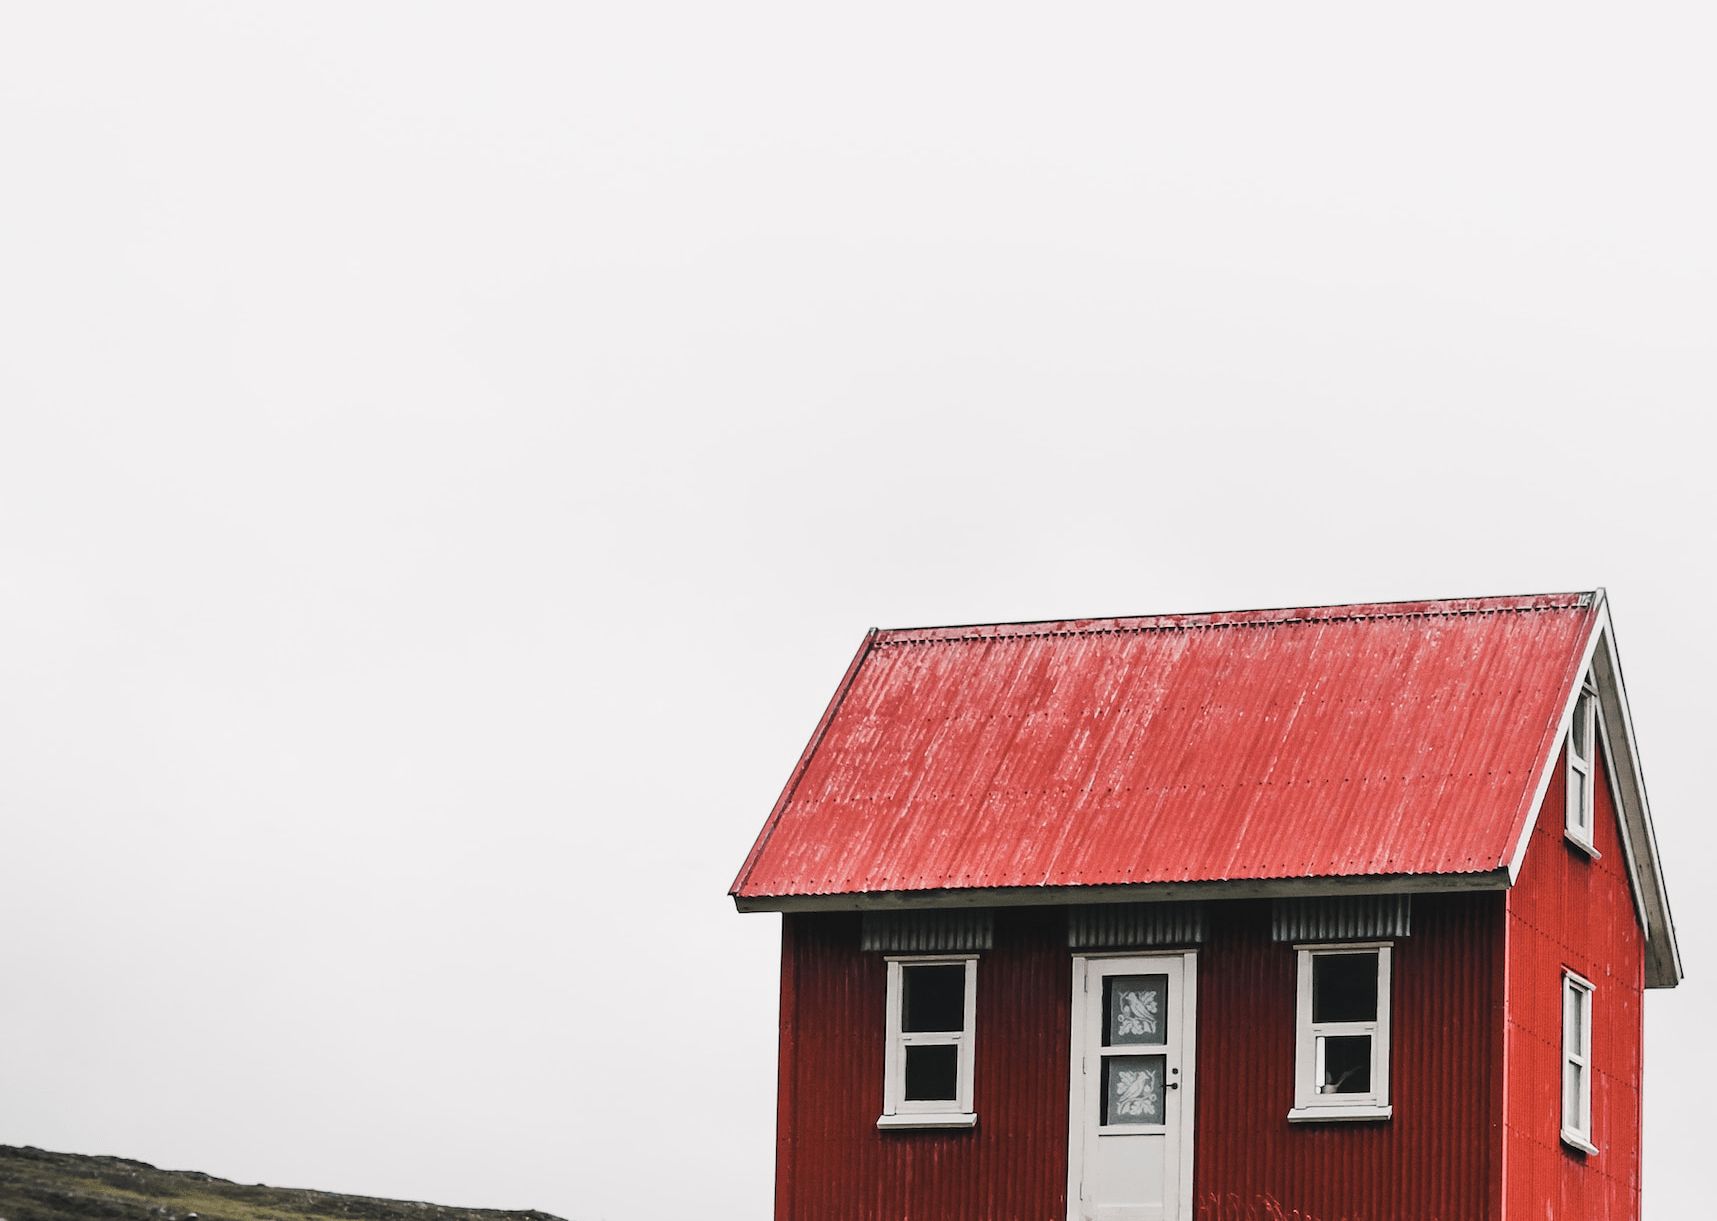
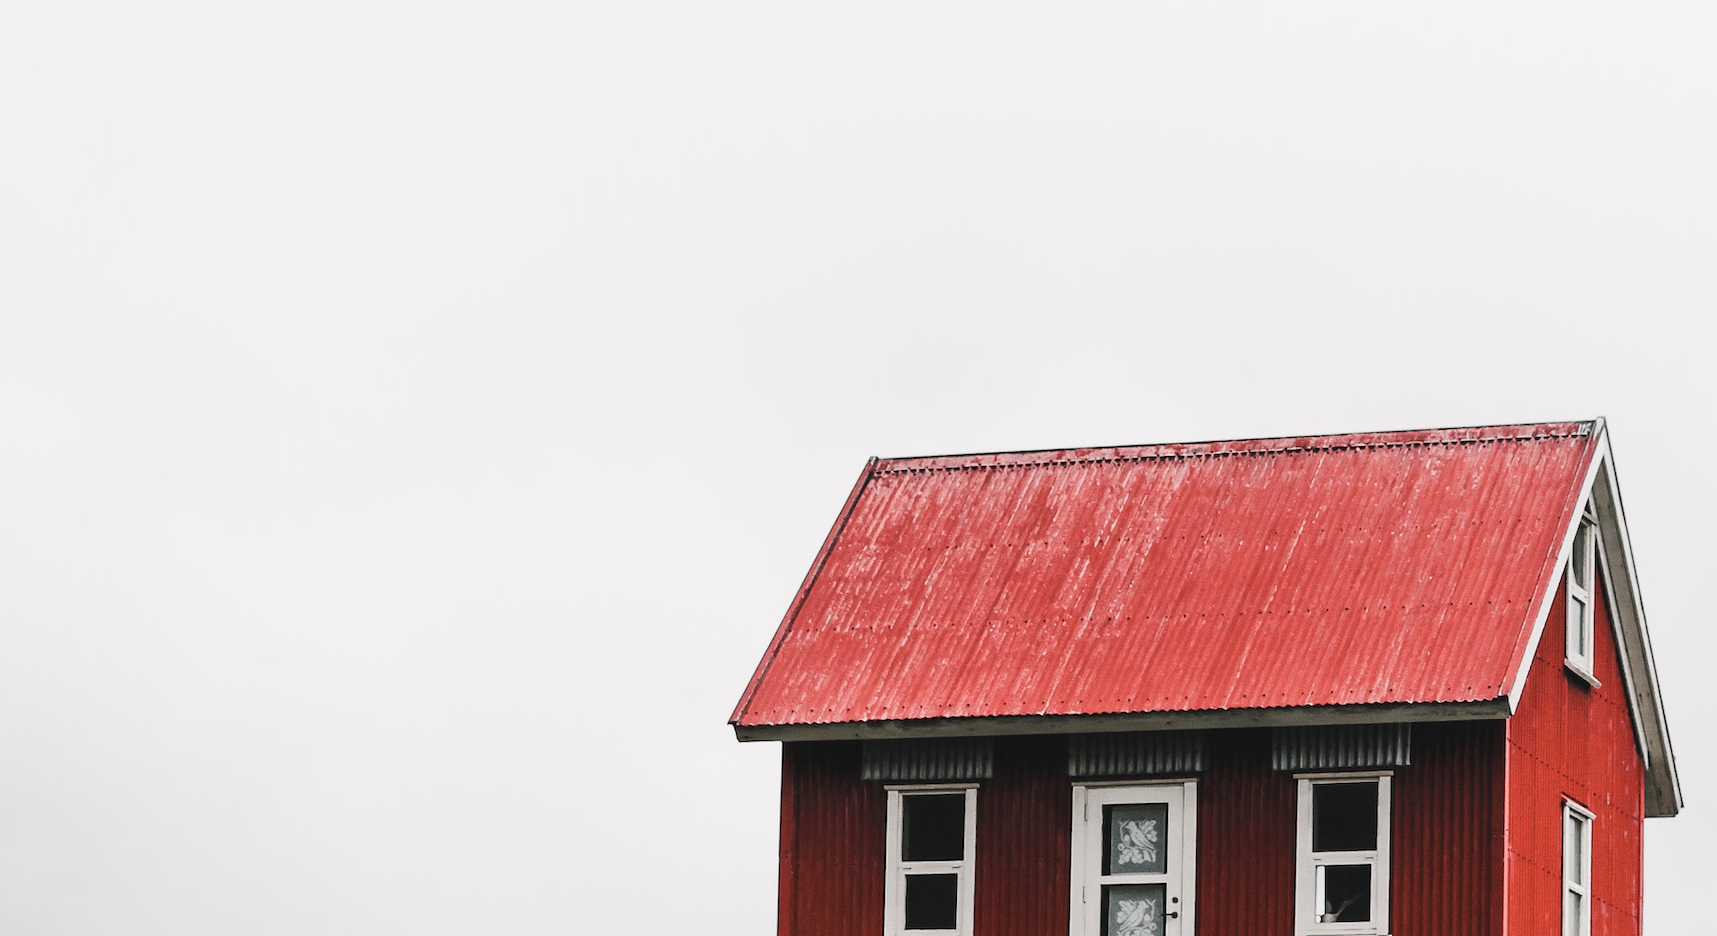
added carousel

Changed region(s): [[0.4013, 0.4338, 0.9878, 1.0], [0.0, 0.9295, 0.3395, 1.0]]

diff --git a/src/components/Header-section/Header.jsx b/src/components/Header-section/Header.jsx
@@ -1,19 +1,39 @@
 import "../Header-section/Header-section.css";
 import { Link } from "react-router-dom";
 import Navbar from "./Navbar";
+import "react-responsive-carousel/lib/styles/carousel.min.css"; // requires a loader
+import { Carousel } from 'react-responsive-carousel';
+import carImg1 from "../../assets/Images/red-house.png"
+import carImg2 from "../../assets/Images/carousel2.png"
+import carImg3 from "../../assets/Images/carousel3.png"
 const Header = () => {
   return (
     <>
       <div className="header-section mb-[80px]">
         <Navbar />
+
         <div id="home"></div>
-        <div className="header-text top-[15%] sm:top-[23%]">
+        <Carousel autoPlay = {true} infiniteLoop = {true} showStatus = {false} showThumbs = {false} stopOnHover ={false} swipeable = {false} animationHandler="fade">
+          <div>
+            <img src={carImg1} />
+            
+          </div>
+          <div>
+            <img src={carImg2} />
+            
+          </div>
+          <div>
+            <img src={carImg3} />
+            
+          </div>
+        </Carousel>
+        <div className="header-text top-[15%] sm:top-[23%] absolute">
           <h1>
             Welcome to <span>Rentalog</span>
           </h1>
           <p>
-            Rentalog is the ultimate solution for landlords looking to simplify
-            their rent management process. Keep track of your renters personal
+            Rentalog is the ultimate solution for landlords looking to simplify <br />
+            their rent management process. Keep track of your <br /> renters personal
             details, their payment history, and much more with ease.
           </p>
           <Link to="/register">

diff --git a/src/components/Header-section/Header-section.css b/src/components/Header-section/Header-section.css
@@ -1,9 +1,9 @@
 .header-section {
   width: 100%;
   height: 100vh;
-  background: url(/src/assets/Images/red-house.png);
-  background-position: center center;
-  background-color: #262626;
+  /* background: url(/src/assets/Images/red-house.png); */
+  /* background-position: center center; */
+  /* background-color: #262626; */
   background-size: cover;
   position: relative;
   margin-bottom: 0;
@@ -44,7 +44,7 @@
 }
 
 .header-text {
-  position: relative;
+  /* position: relative; */
   left: 4%;
   width: 68%;
 }
